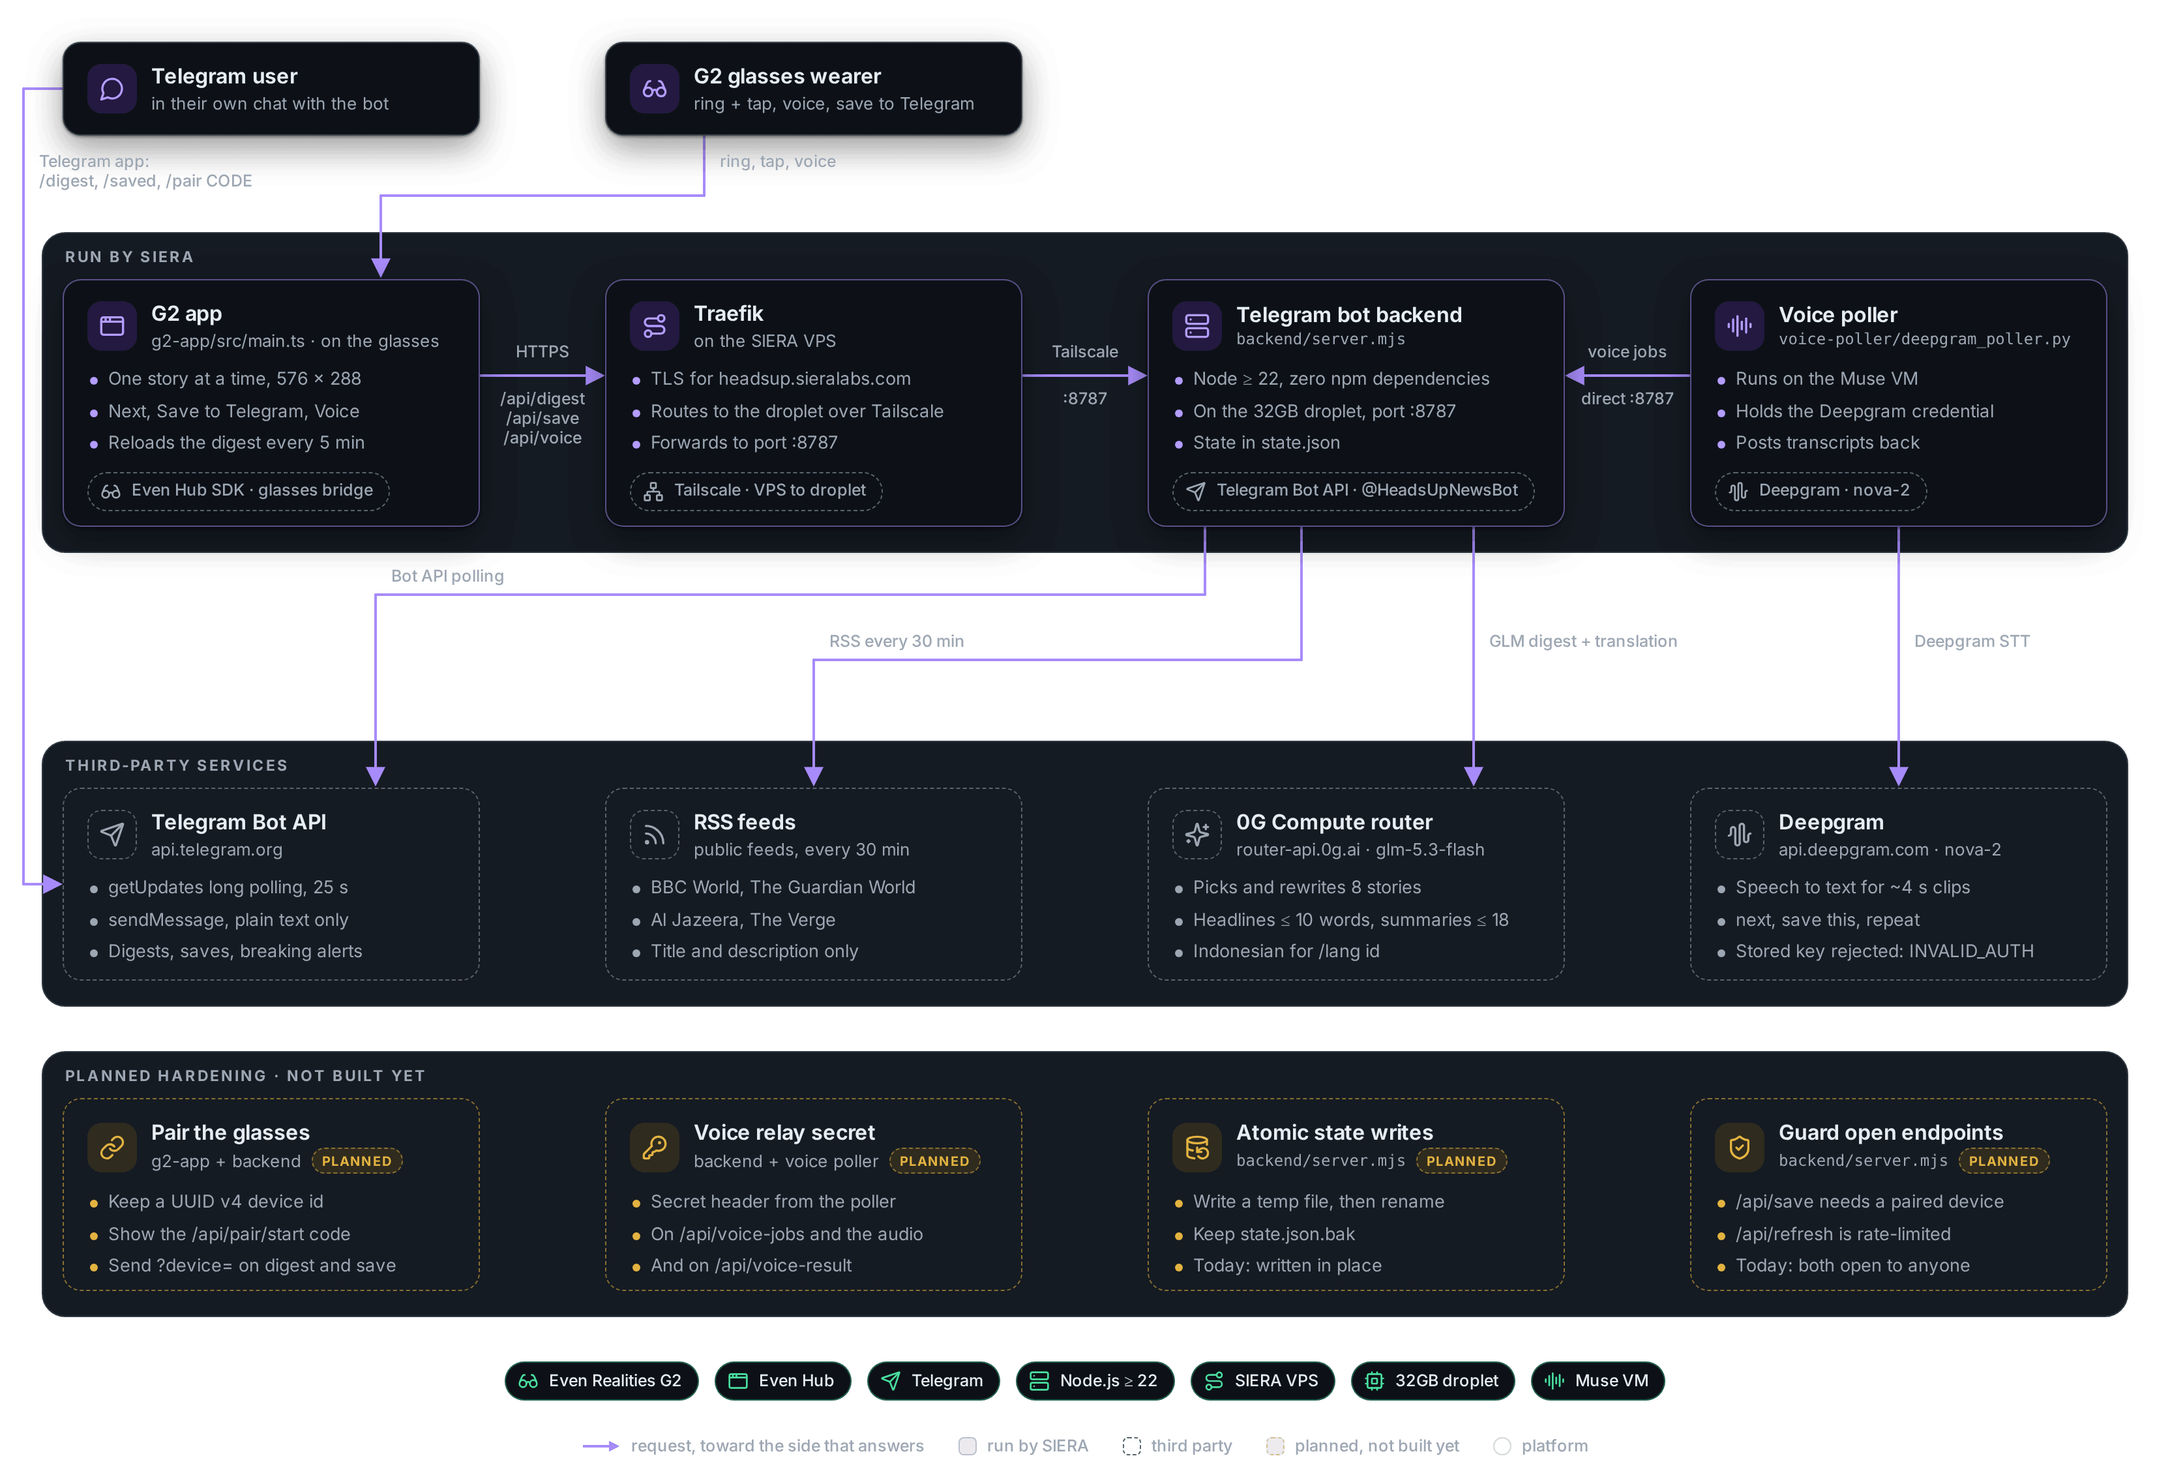
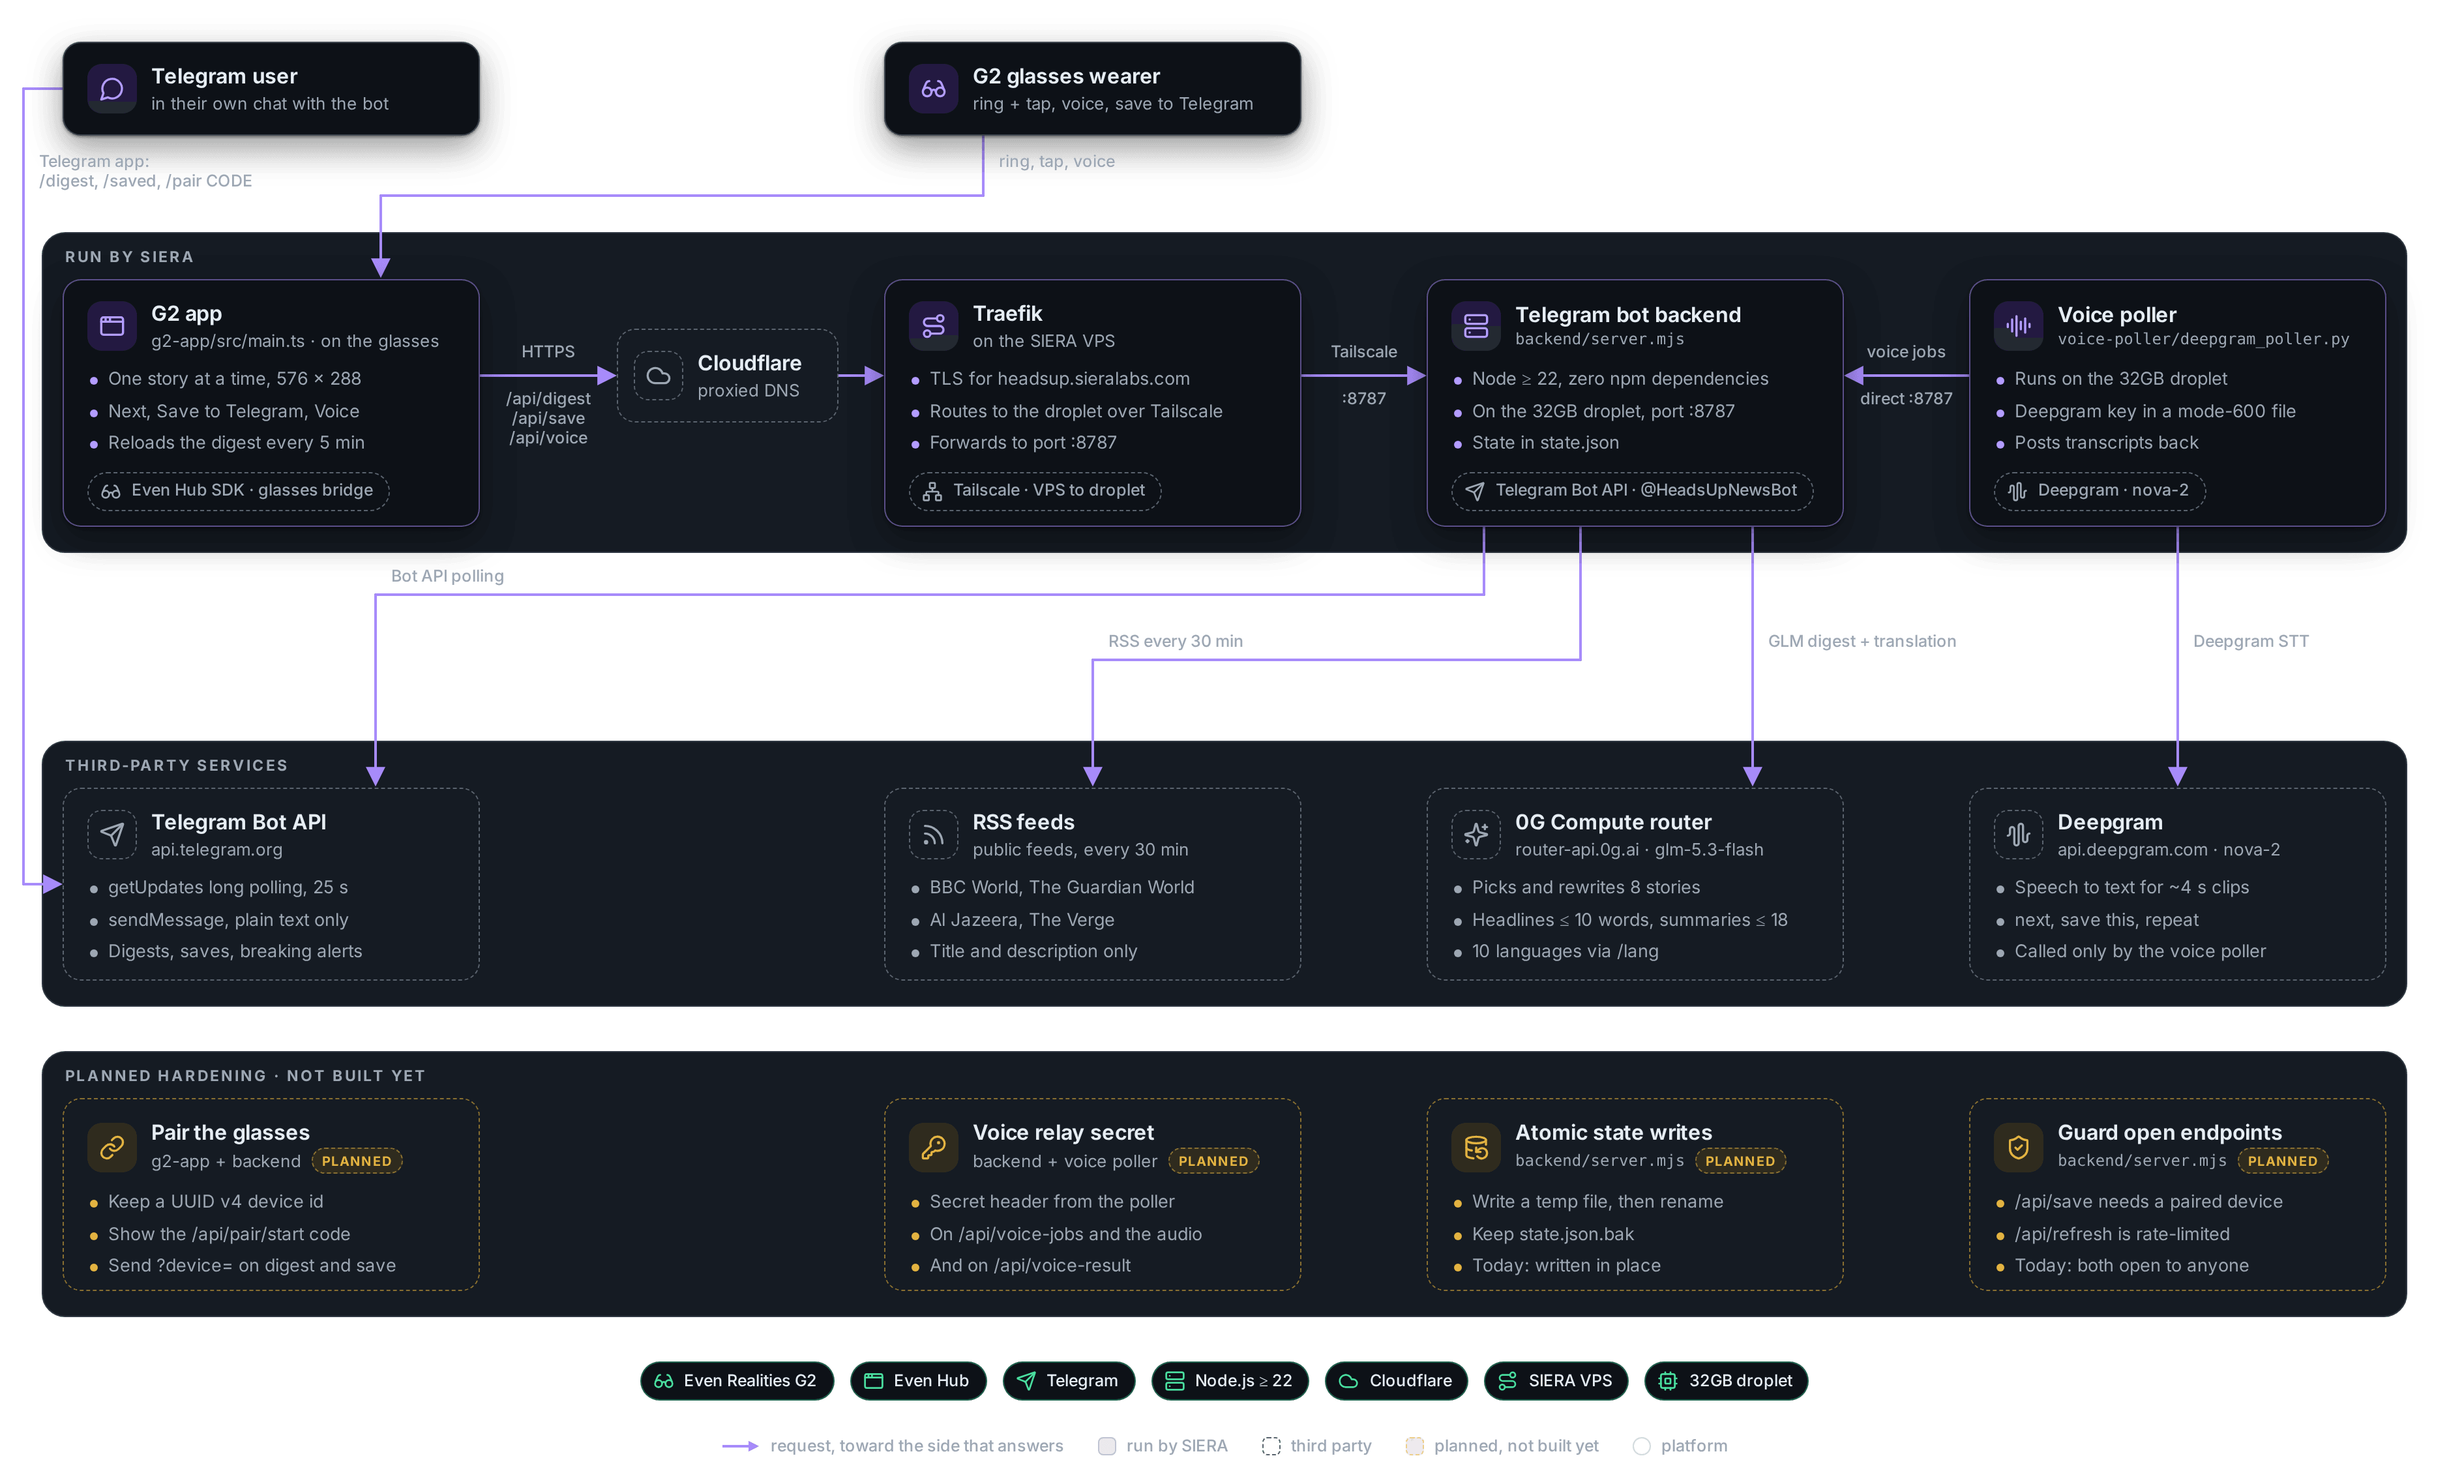
Diagram: poller on the droplet, Cloudflare hop, live Deepgram, 10 languages

diff --git a/README.md b/README.md
@@ -41,7 +41,7 @@ headlines with source links, without copying descriptions into summaries.
 
 <picture>
   <source media="(prefers-color-scheme: dark)" srcset="docs/architecture-dark.png">
-  <img alt="Heads Up News architecture. Users: a Telegram user in their own chat with the bot, and a G2 glasses wearer using ring + tap, voice and save to Telegram. Run by SIERA: the G2 app (g2-app/src/main.ts, on the glasses, Even Hub SDK) calls headsup.sieralabs.com over HTTPS for /api/digest, /api/save and /api/voice; Traefik on the SIERA VPS terminates TLS and routes over Tailscale to port 8787 on the 32GB droplet; the Telegram bot backend (backend/server.mjs, Node 22 or later, zero npm dependencies, state in state.json) runs there; the voice poller (voice-poller/deepgram_poller.py) runs on the Muse VM, holds the Deepgram credential, polls the droplet directly on port 8787 for voice jobs and posts transcripts back. Third-party services: the Telegram Bot API (getUpdates long polling, sendMessage as plain text), which Telegram users reach with /digest, /saved and /pair CODE; the RSS feeds of BBC World, The Guardian World, Al Jazeera and The Verge, read every 30 minutes; the 0G Compute router with glm-5.3-flash for the digest and Indonesian translation; and Deepgram nova-2 speech to text, whose stored key is currently rejected with INVALID_AUTH. Planned hardening, not built yet: pair the glasses (device id, /api/pair/start code, ?device=), a shared secret for the voice relay, atomic state writes with state.json.bak, and a paired device for /api/save plus a rate limit on /api/refresh." src="docs/architecture-light.png">
+  <img alt="Heads Up News architecture. Users: a Telegram user in their own chat with the bot, and a G2 glasses wearer using ring + tap, voice and save to Telegram. Run by SIERA: the G2 app (g2-app/src/main.ts, on the glasses, Even Hub SDK) calls headsup.sieralabs.com over HTTPS for /api/digest, /api/save and /api/voice, through Cloudflare (proxied DNS) to Traefik; Traefik on the SIERA VPS terminates TLS and routes over Tailscale to port 8787 on the 32GB droplet; the Telegram bot backend (backend/server.mjs, Node 22 or later, zero npm dependencies, state in state.json) runs there; the voice poller (voice-poller/deepgram_poller.py) also runs on the 32GB droplet, reads the Deepgram key from a mode-600 file, polls the backend directly on port 8787 for voice jobs and posts transcripts back. Third-party services: the Telegram Bot API (getUpdates long polling, sendMessage as plain text), which Telegram users reach with /digest, /saved and /pair CODE; the RSS feeds of BBC World, The Guardian World, Al Jazeera and The Verge, read every 30 minutes; the 0G Compute router with glm-5.3-flash for the digest and translation into 10 languages via /lang; and Deepgram nova-2 speech to text, called only by the voice poller. Planned hardening, not built yet: pair the glasses (device id, /api/pair/start code, ?device=), a shared secret for the voice relay, atomic state writes with state.json.bak, and a paired device for /api/save plus a rate limit on /api/refresh." src="docs/architecture-light.png">
 </picture>
 
 The diagram shows what runs today; the four amber cards are planned and
@@ -124,8 +124,8 @@ g2-app/              Even Hub app (Vite + TypeScript + @evenrealities/even_hub_s
                      2 text containers (header, story) + 1 action list.
                      Also renders a DOM mirror for plain-browser preview.
 voice-poller/        Deepgram STT poller (Python, stdlib only). Runs on the
-                     Muse VM, where the Deepgram credential lives; polls the
-                     droplet for voice jobs and posts transcripts back.
+                     32GB droplet with a file-based Deepgram key; polls the
+                     backend for voice jobs and posts transcripts back.
 ```
 
 ## Setup
@@ -183,25 +183,20 @@ Use HTTPS and keep the device UUID private. Do not expose or include it in
 telemetry. A paired UUID cannot be reassigned; generate a new UUID to pair
 again.
 
-### Voice relay (Deepgram STT) — runs on the Muse VM, not the droplet
+### Voice relay (Deepgram STT) — the poller runs on the 32GB droplet
 
-The Deepgram API key is held by the Muse VM (`custom.deepgram` via authd
-surrogates), and the surrogate is only substituted with the real key on VM
-egress — so the droplet backend cannot call Deepgram itself, and no key
-(raw or surrogate) is ever written to the droplet, an env var, or the
-backend source. Voice is therefore an async job queue:
+The live poller runs on the droplet as
+`/usr/bin/python3 /root/headsup/voice-poller/deepgram_poller.py` and reads
+the Deepgram API key from `/root/.config/deepgram/api-key` (mode 600). The
+backend never calls Deepgram itself; voice is an async job queue:
 
 - The G2 app POSTs the mic clip (16 kHz 16-bit mono PCM in a WAV) to
   `POST /api/voice` and polls `GET /api/voice/:jobId`.
-- `voice-poller/deepgram_poller.py` (stdlib-only Python) polls the droplet
-  for jobs, transcribes each clip with Deepgram `nova-2` (~$0.0003 per
-  4 s clip) from the VM, and POSTs the transcript back. It mints a fresh
-  surrogate per Deepgram call and keeps it only in memory. It must be
-  started from a shell with the runtime proxy env (the VM has no direct
-  egress):
-  ```bash
-  setsid nohup python3 voice-poller/deepgram_poller.py >> voice-poller.log 2>&1 < /dev/null &
-  ```
+- `voice-poller/deepgram_poller.py` (stdlib-only Python) polls the backend
+  directly on `:8787` for jobs (not through `headsup.sieralabs.com`, whose
+  Cloudflare bot protection returns 403 to bare urllib requests),
+  transcribes each clip with Deepgram `nova-2` (~$0.0003 per 4 s clip), and
+  POSTs the transcript back.
 - If the poller hasn't checked in for 20 s, `POST /api/voice` fails fast
   with `503 voice_unavailable` and the glasses say voice is offline —
   ring + tap are unaffected.
@@ -265,12 +260,9 @@ The app fetches its digest from the backend URL in `src/main.ts`
   can't message a chat that never talked to them). — Done: the user has
   pressed `/start`; saves now deliver.
 - The backend is served over TLS at `https://headsup.sieralabs.com`
-  (Traefik on the SIERA VPS → droplet over Tailscale).
-- Voice (Deepgram STT) is wired end-to-end, with two honest limits:
-  - The stored Deepgram credential is currently rejected by Deepgram
-    (`INVALID_AUTH` on a request that provably carried the surrogate).
-    A reconnect is needed: re-enter a valid Deepgram API key, then re-test
-    transcription with a recorded clip before calling voice done.
+  (Cloudflare → Traefik on the SIERA VPS → droplet over Tailscale).
+- Voice (Deepgram STT) is live since Nov 23: a recorded 1-second clip was
+  transcribed end to end, with no auth error. One honest limit:
   - Live-mic transcription on real G2 hardware is NOT tested yet — the
     simulator has no mic, so it can only prove the wiring up to
     "Mic unavailable". The glasses-mic path (PCM → WAV → queue → Deepgram)
